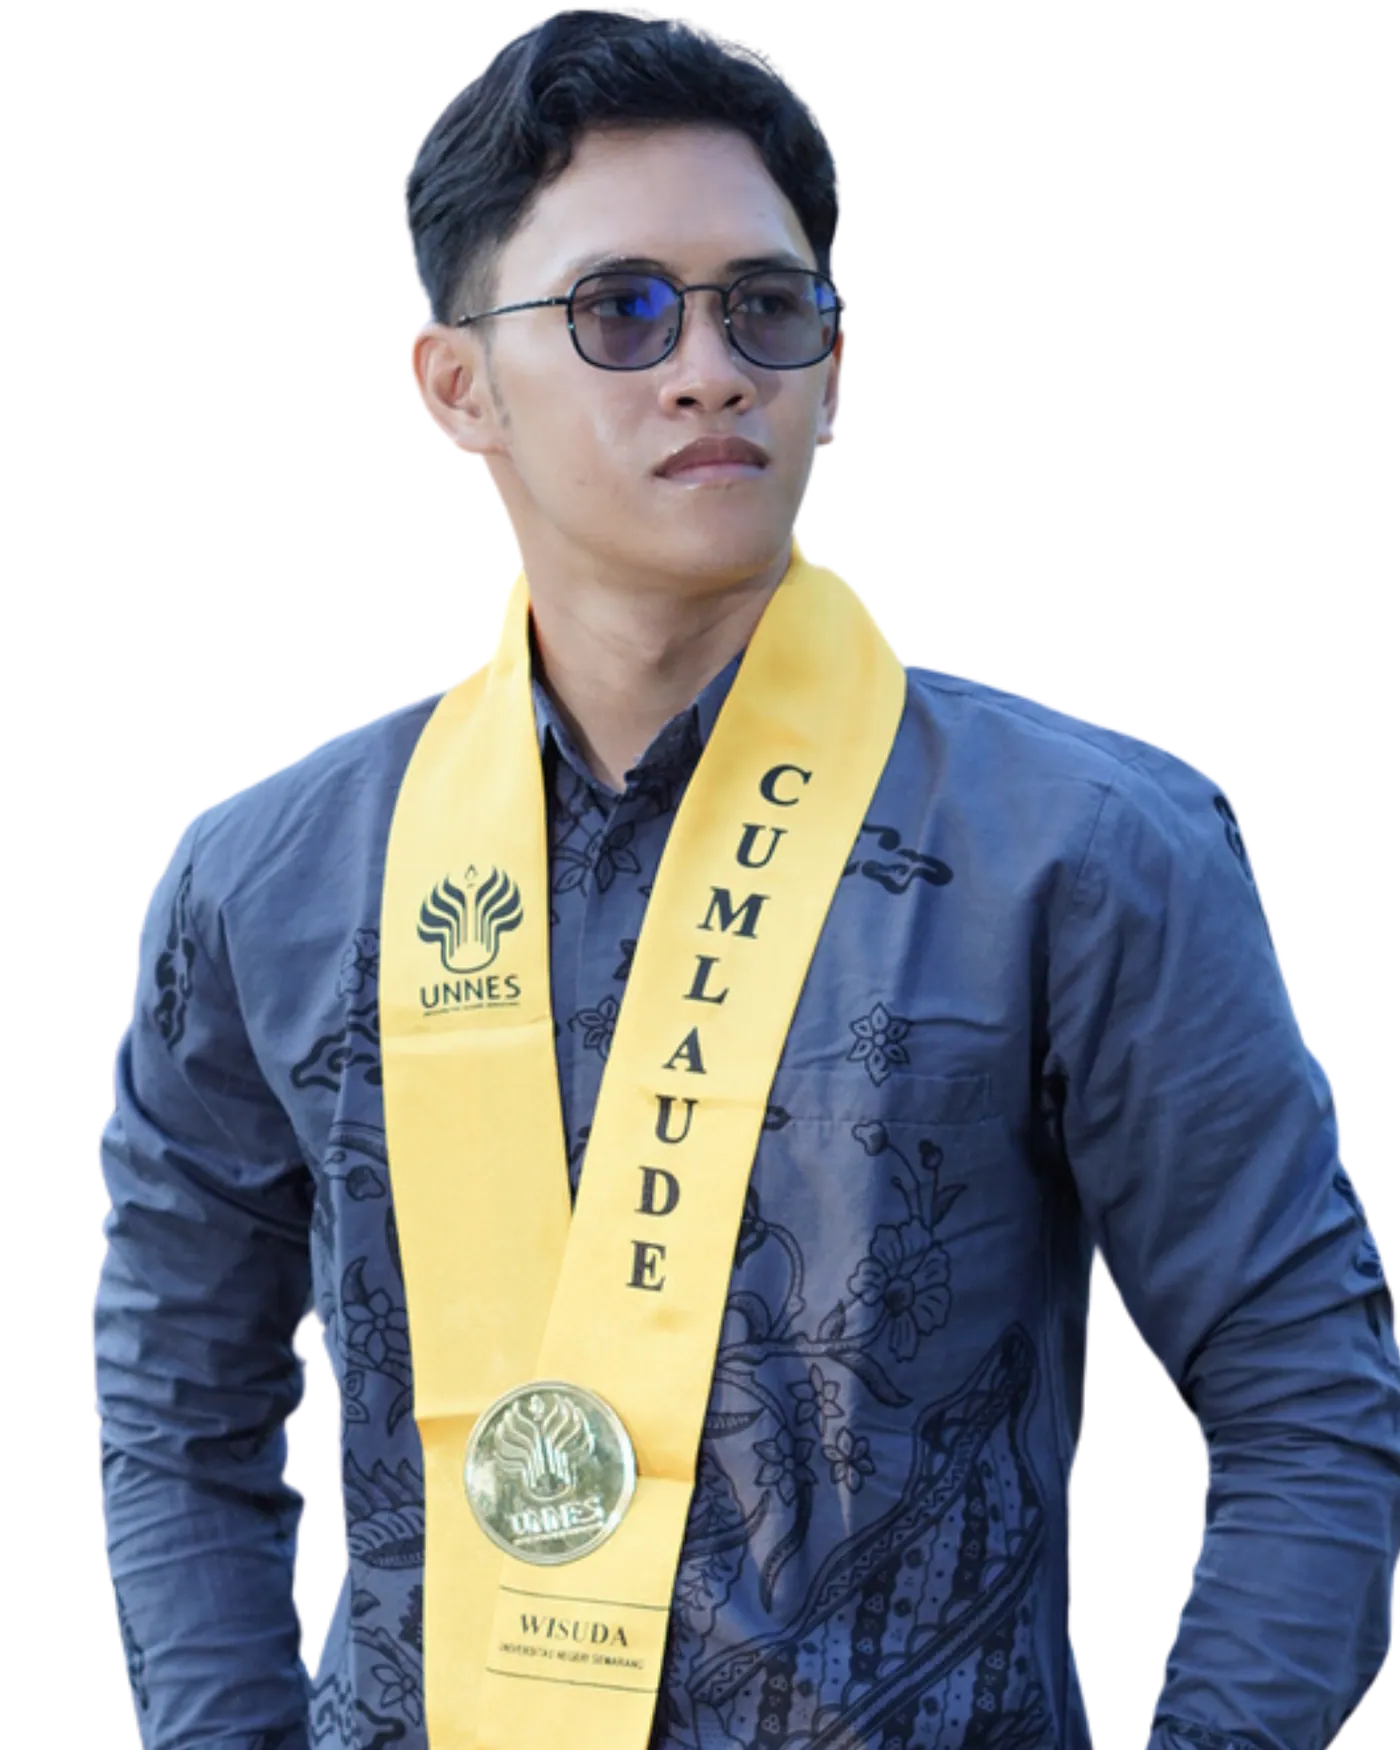
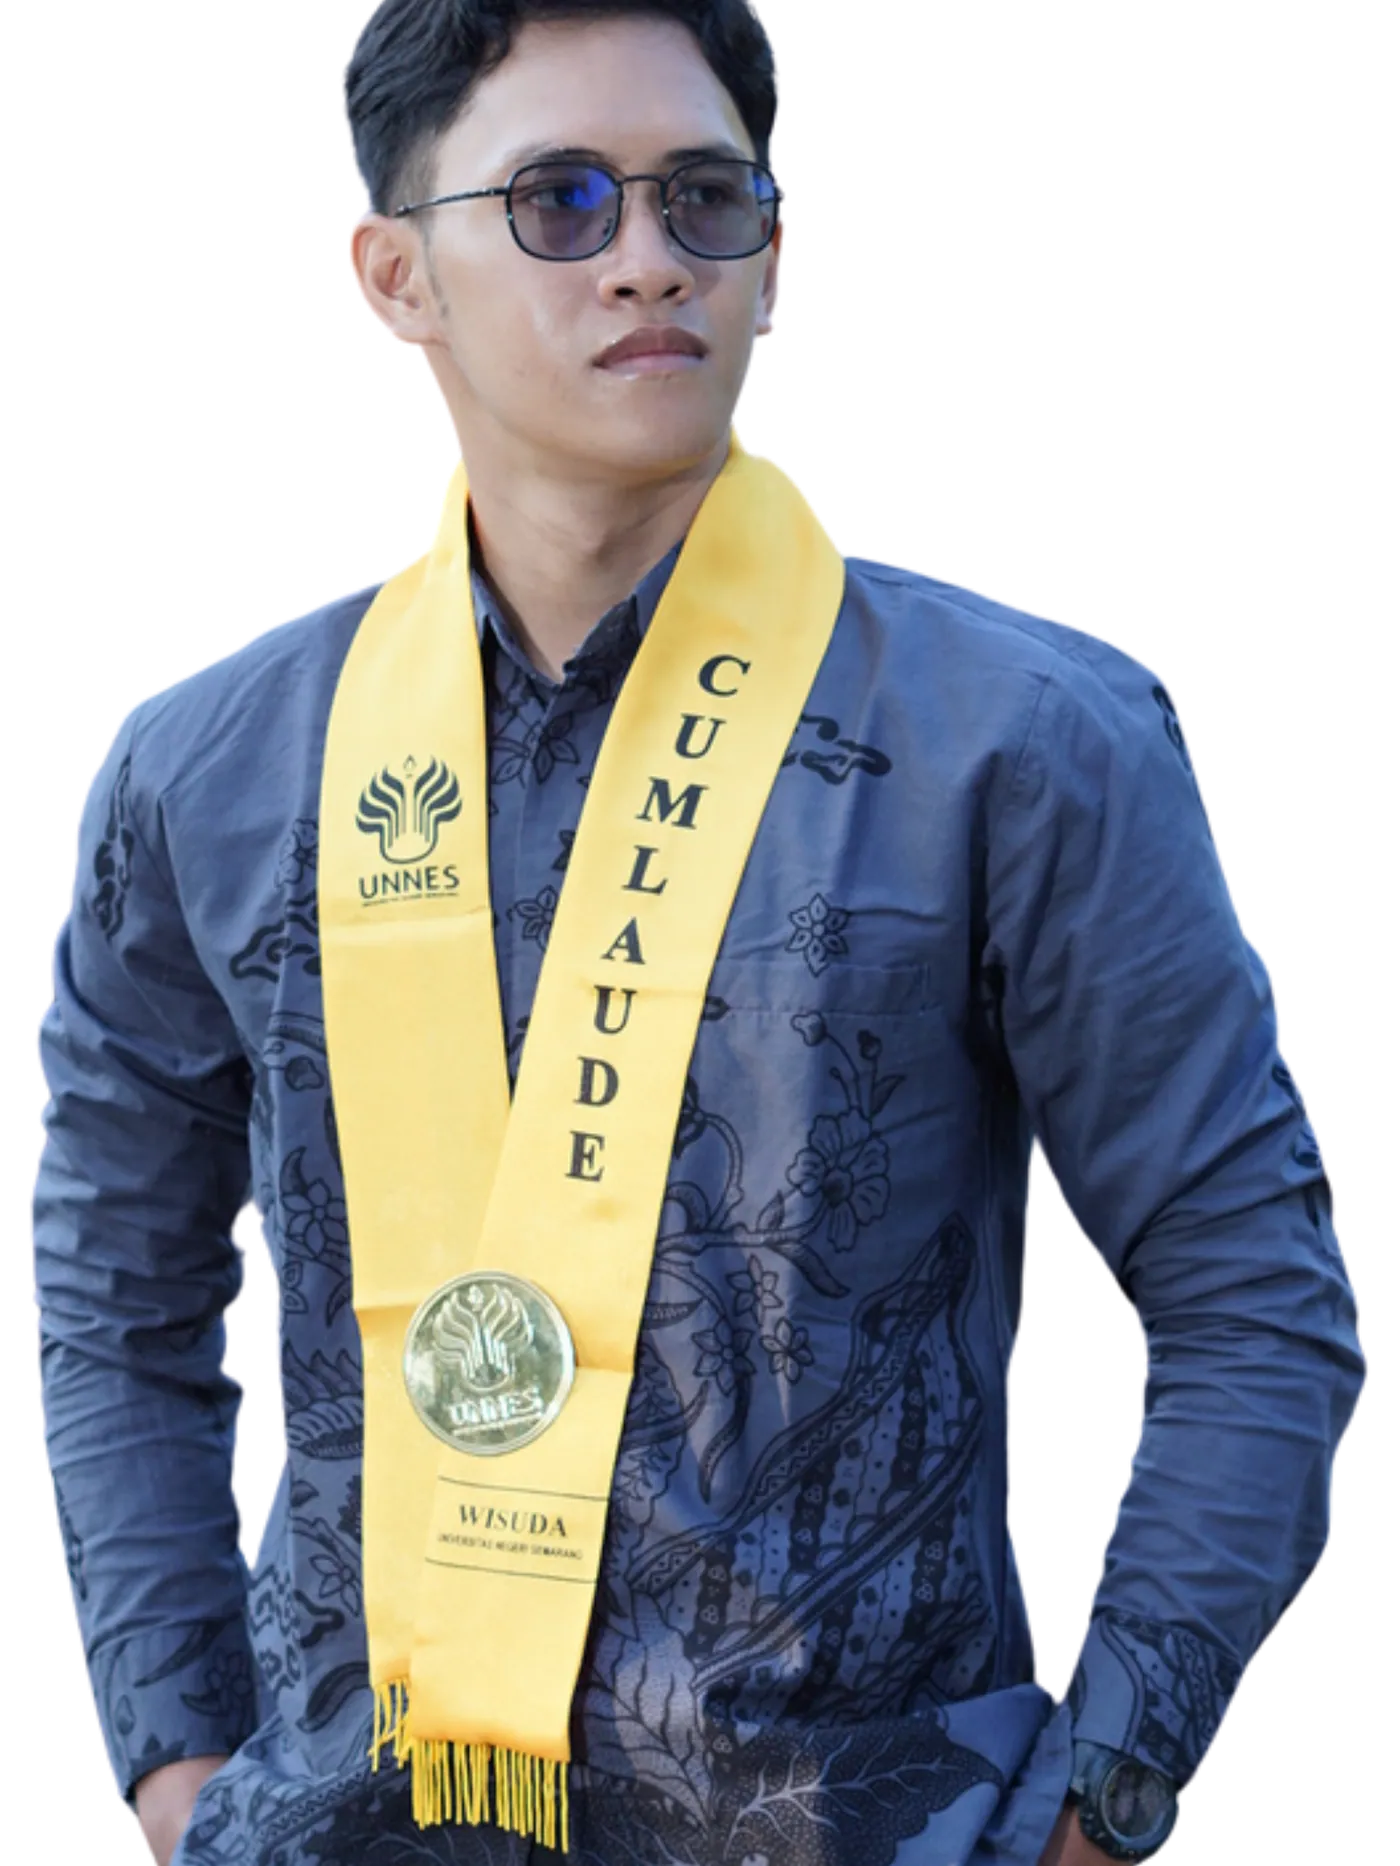
Seat the cut-out portrait in the page instead of pasting it on
The portrait has no backdrop — the user removed it — and roughly 40% of its
pixels are fully transparent, so the file contains nothing but a silhouette.
The previous treatment ignored that and styled it like a rectangular photograph:
a filled plate, a 1px border and a border-radius on the <img>, plus a box-shadow.
On a cut-out those drew a visible RECTANGLE around a person who has no rectangle.
That is precisely what made it read as "pasted on", and no amount of colour
tuning could have fixed it because the problem was the geometry.

WHAT CHANGED
- `drop-shadow` instead of `box-shadow`. drop-shadow is applied to the rendered
  alpha, so the shadow now traces the real silhouette — shoulders, arm, sash —
  which is what seats the subject in the page. Two stacked: a tight one to seat
  it, a wide soft one for depth. Per theme: near-neutral on dark, warm and much
  softer on paper, because a hard black drop reads as dirt on ivory.
- No plate, no border, no radius on the image.
- A soft radial "pool" behind the figure (::before), kept FAINT. At first it
  used the full matte colour, which on the light theme surfaced as a visible
  beige ellipse floating behind the subject — the opposite of the intent. It now
  carries a fraction of the matte with an early falloff.
- `isolation: isolate` on the figure so the -1 layer cannot vanish behind an
  ancestor's background.

CROP CORRECTED — twice
- Measured the alpha bounding box instead of estimating: the subject occupies
[…]

diff --git a/src/data/profile.ts b/src/data/profile.ts
@@ -101,17 +101,20 @@ const rawProfile: Profile = {
    * `Foto Cover.png`), shot against a black backdrop — which is what makes the
    * dark editorial hero treatment work.
    *
-   * CROPPED to a head-and-shoulders 4:5 by the asset pipeline. The supplied
-   * frame is full-length with the figure occupying only part of it, so at hero
-   * size the face became a small figure on a large black field. The crop is
-   * measured from the subject's actual extent and keeps the sash in shot. The
-   * uncropped original is still produced as `/images/hero/portrait-full.webp`.
+   * CROPPED to a head-to-chest 3:4 by the asset pipeline, measured from the
+   * subject's actual extent. The supplied frame is full-length, so at hero size
+   * the face became a small figure on a large empty field.
+   *
+   * NOTE the file has NO BACKDROP — it is a cut-out with roughly 40% of its
+   * pixels fully transparent, so the hero renders it as a silhouette in the page
+   * (drop-shadow, soft pool) rather than a pasted rectangle. The uncropped
+   * original is still produced as `/images/hero/portrait-full.webp`.
    */
   portrait: {
     src: '/images/hero/portrait.webp',
-    alt: 'Portrait of Hamzah Naufal Zuhdi against a dark background, wearing a graduation sash',
+    alt: 'Portrait of Hamzah Naufal Zuhdi, wearing a graduation sash',
     width: 1400,
-    height: 1750,
+    height: 1866,
   },
 
   contactLinks: [

diff --git a/src/styles/tokens.css b/src/styles/tokens.css
@@ -185,9 +185,9 @@
 
   /* ---- photographs ------------------------------------------------------
      A photograph does not automatically belong to the palette it is dropped
-     into. The hero portrait was shot on a BLACK backdrop against a near-black
-     page, so on dark it dissolved into the background with no separation at
-     all, and the same file on paper read as a hard black slab.
+     into. The hero portrait is a CUT-OUT — its backdrop is transparent, not a
+     colour — so the page showed through it and the tone followed the page by
+     accident. These tokens make the treatment deliberate.
 
      These three tokens make one set of source images sit correctly in BOTH
      themes without editing the files:

diff --git a/src/data/asset-dims.generated.ts b/src/data/asset-dims.generated.ts
@@ -6,7 +6,7 @@
  * layout space (aspect-ratio) so images cause no layout shift.
  */
 export const imageDims: Record<string, [number, number]> = {
-  '/images/hero/portrait.webp': [1400, 1750],
+  '/images/hero/portrait.webp': [1400, 1866],
   '/images/hero/portrait-full.webp': [1200, 1800],
   '/images/experience/airnav-onboarding.webp': [1800, 1012],
   '/images/experience/airnav-building.webp': [639, 480],
